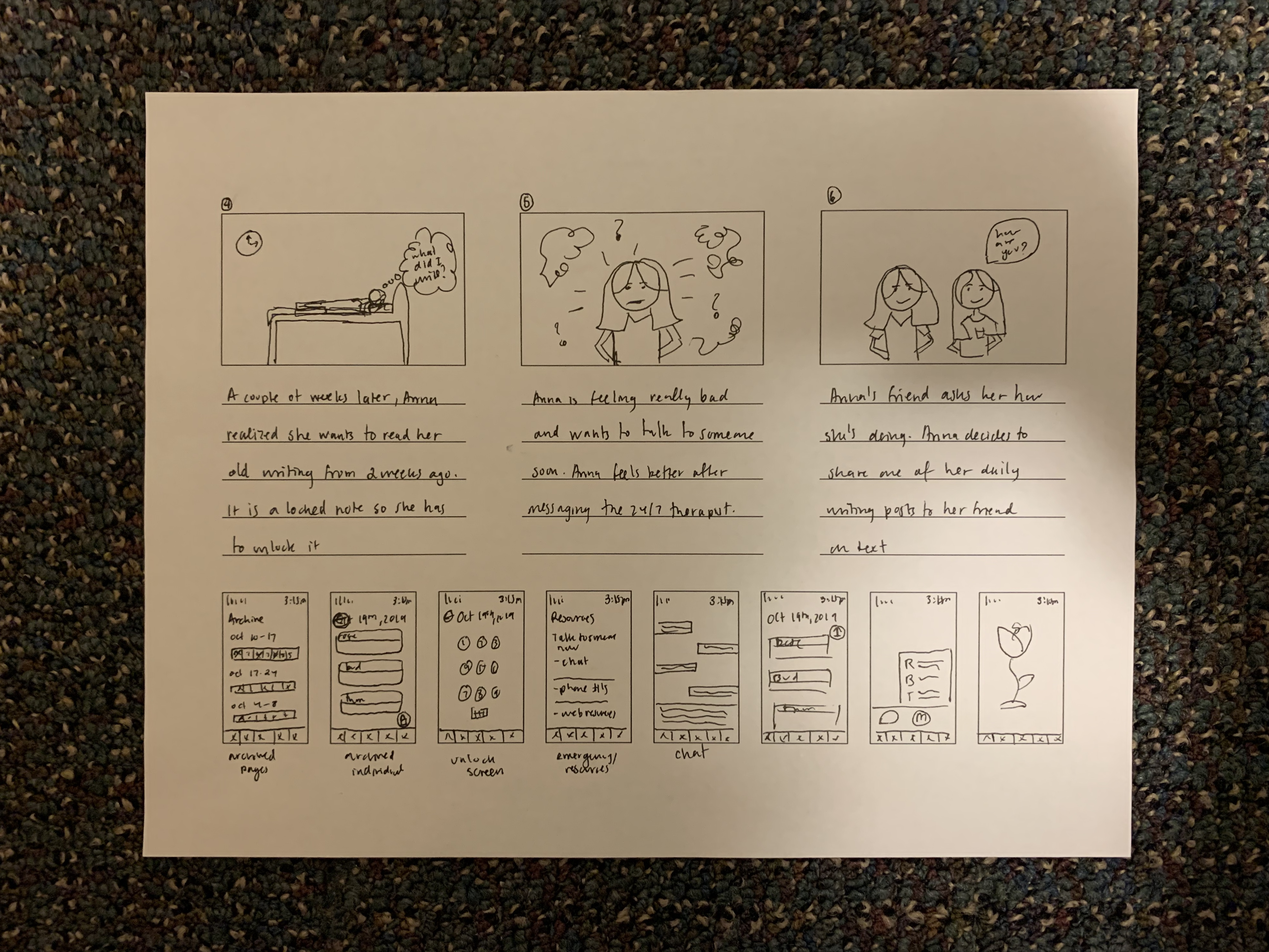
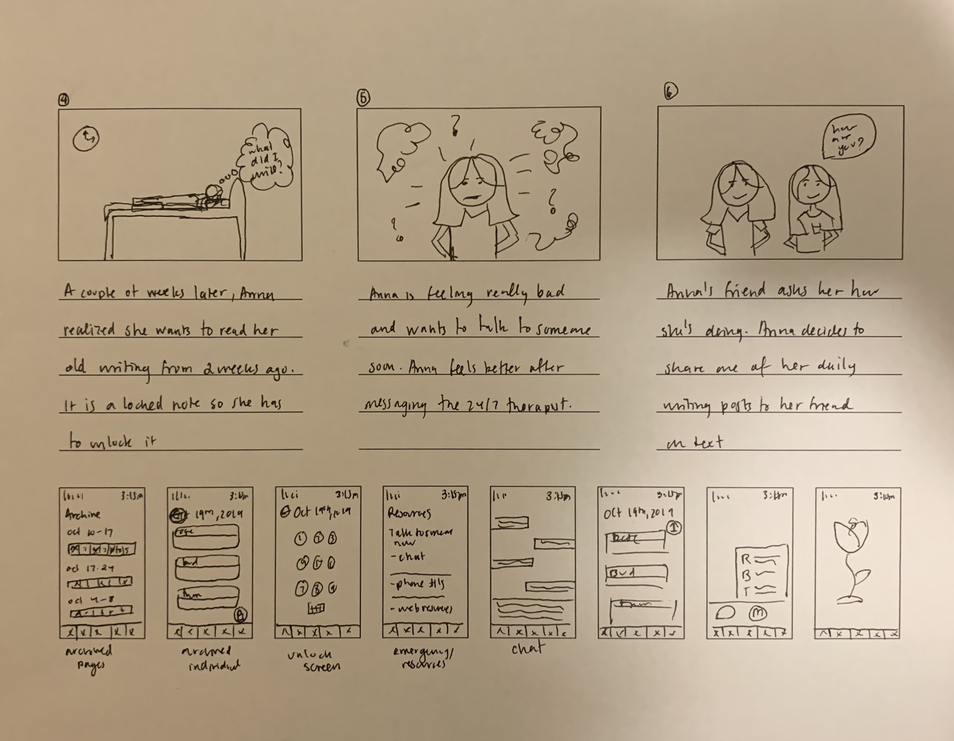
added storyboards

diff --git a/pages/rosebudthorn.html b/pages/rosebudthorn.html
@@ -194,7 +194,8 @@
                 <br>
                 <h2>Storyboarding</h2>
                 <br>
-                <!-- <img src="/img/budgesitemap.jpg" alt="me" style="width:417px;height:482px;"> -->
+                <img src="/img/rbtstoryboard1.jpg" alt="me" style="width:592px;height:575px;">
+                <img src="/img/rbtstoryboard2.jpg" alt="me" style="width:592px;height:575px;">
                 <br>
               </div>
               <div class="col-md-7 mx-auto">
